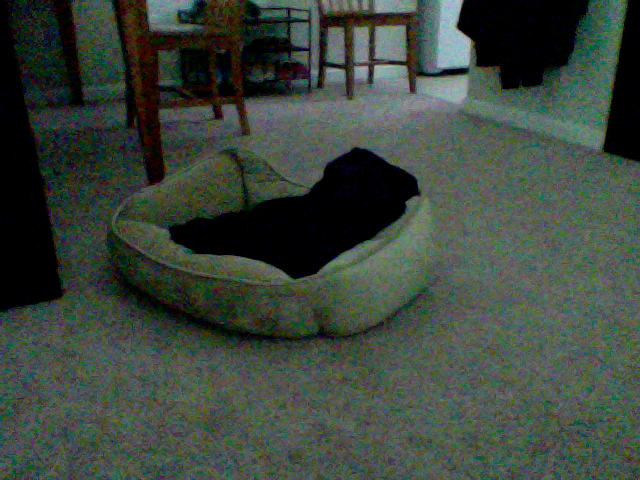
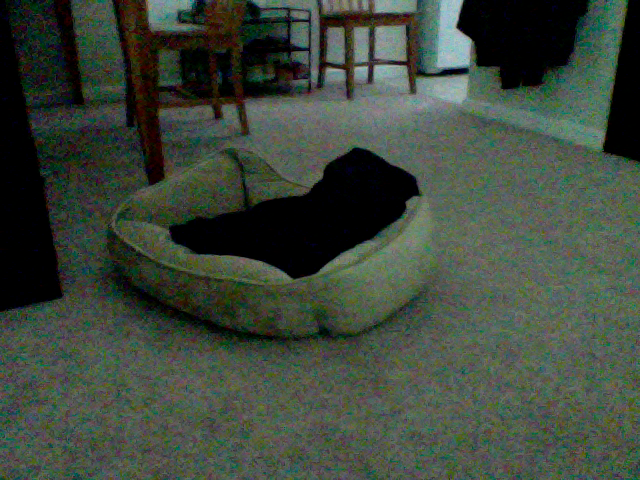
update at Month05Day09Time10:55

diff --git a/index.html b/index.html
@@ -39,8 +39,8 @@
       <!-- Example row of columns -->
       <div class="row">
         <div class="col-md-4">
-	<p>This picture was updated at Month05Day09Time10:54</p>
-		<img src="5_pic.png" />
+	<p>This picture was updated at Month05Day09Time10:55</p>
+		<img src="3_pic.png" />
         </div>
       </div>
 
